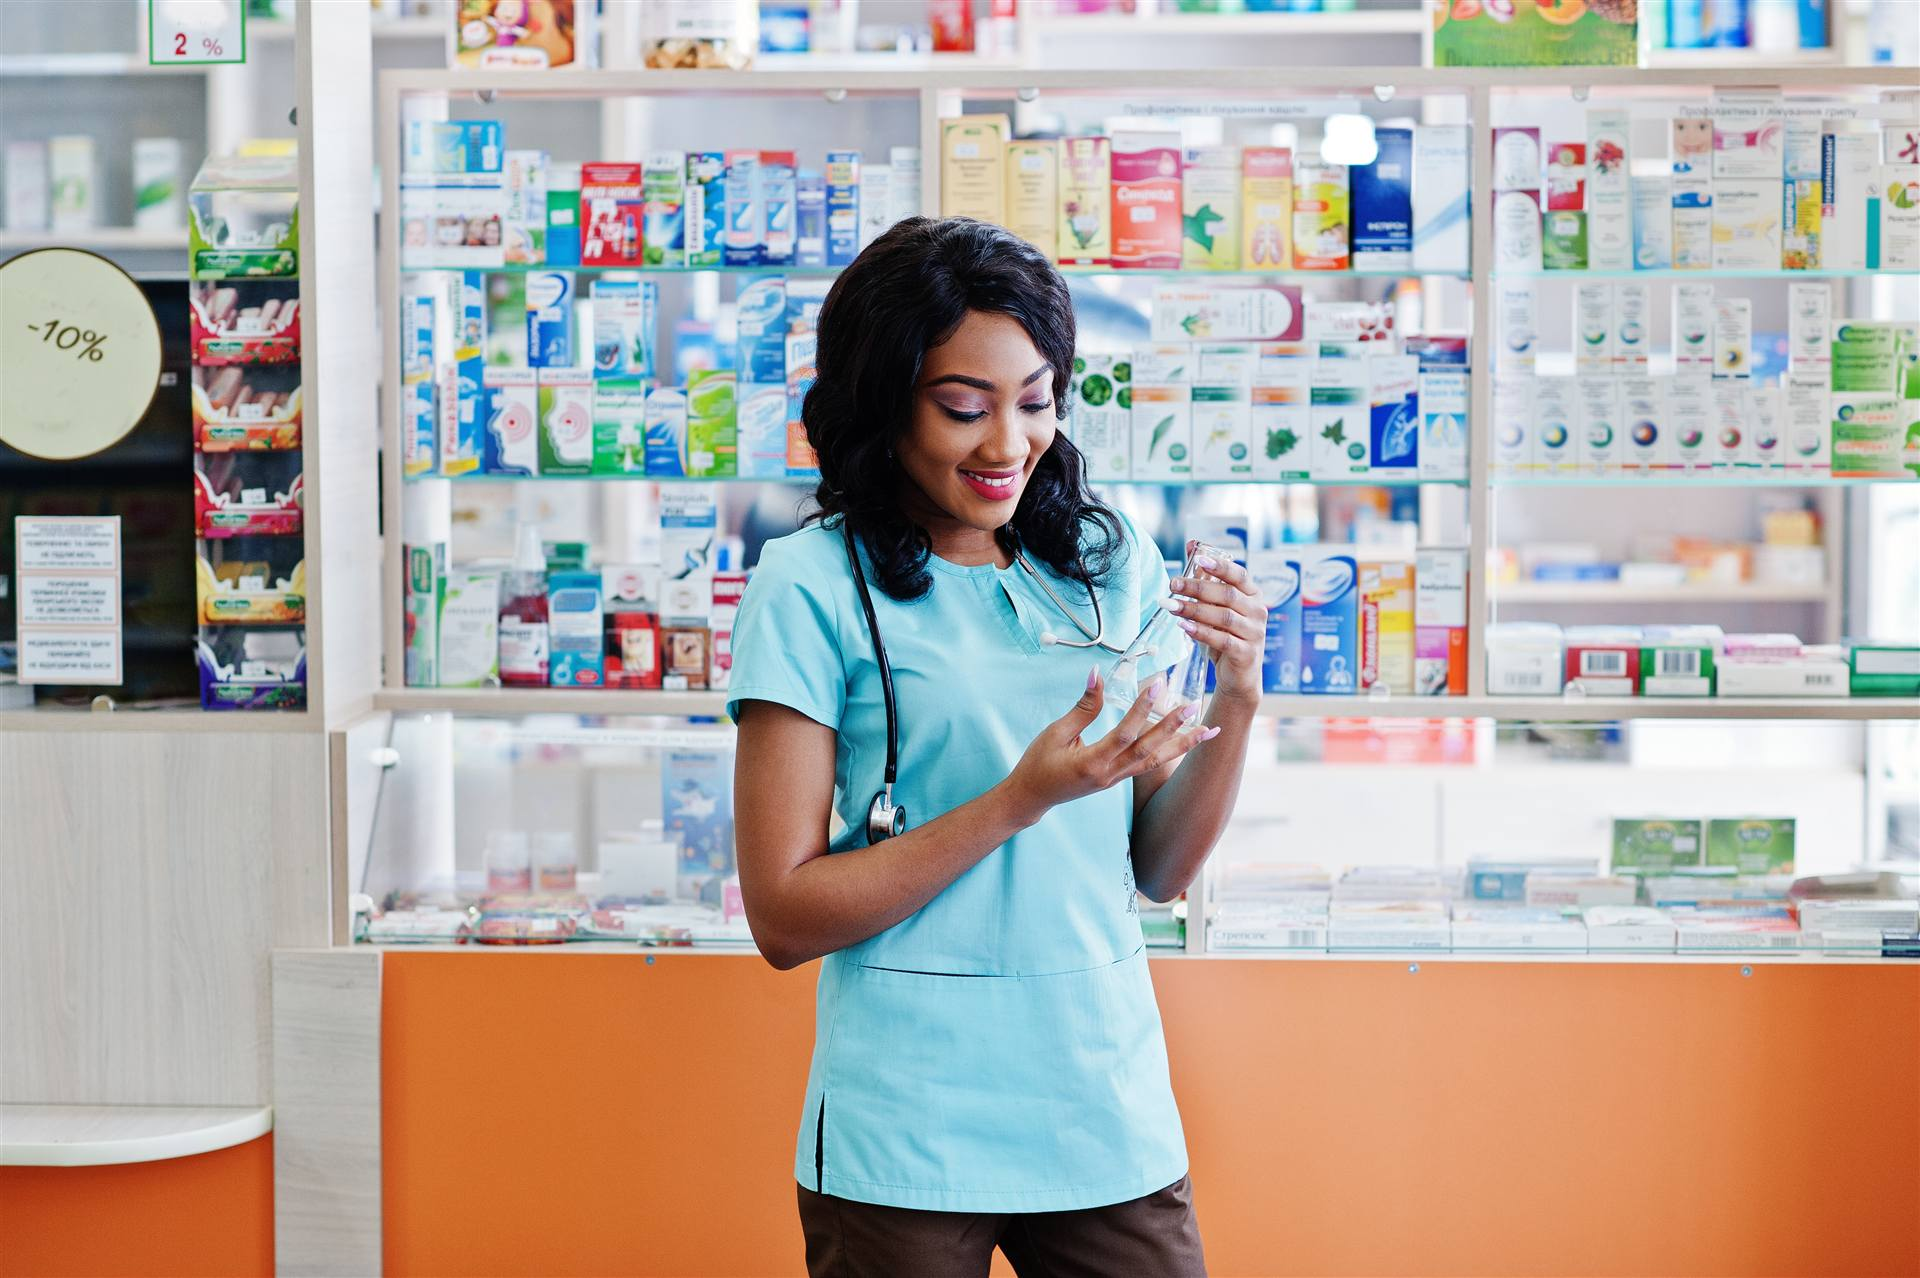
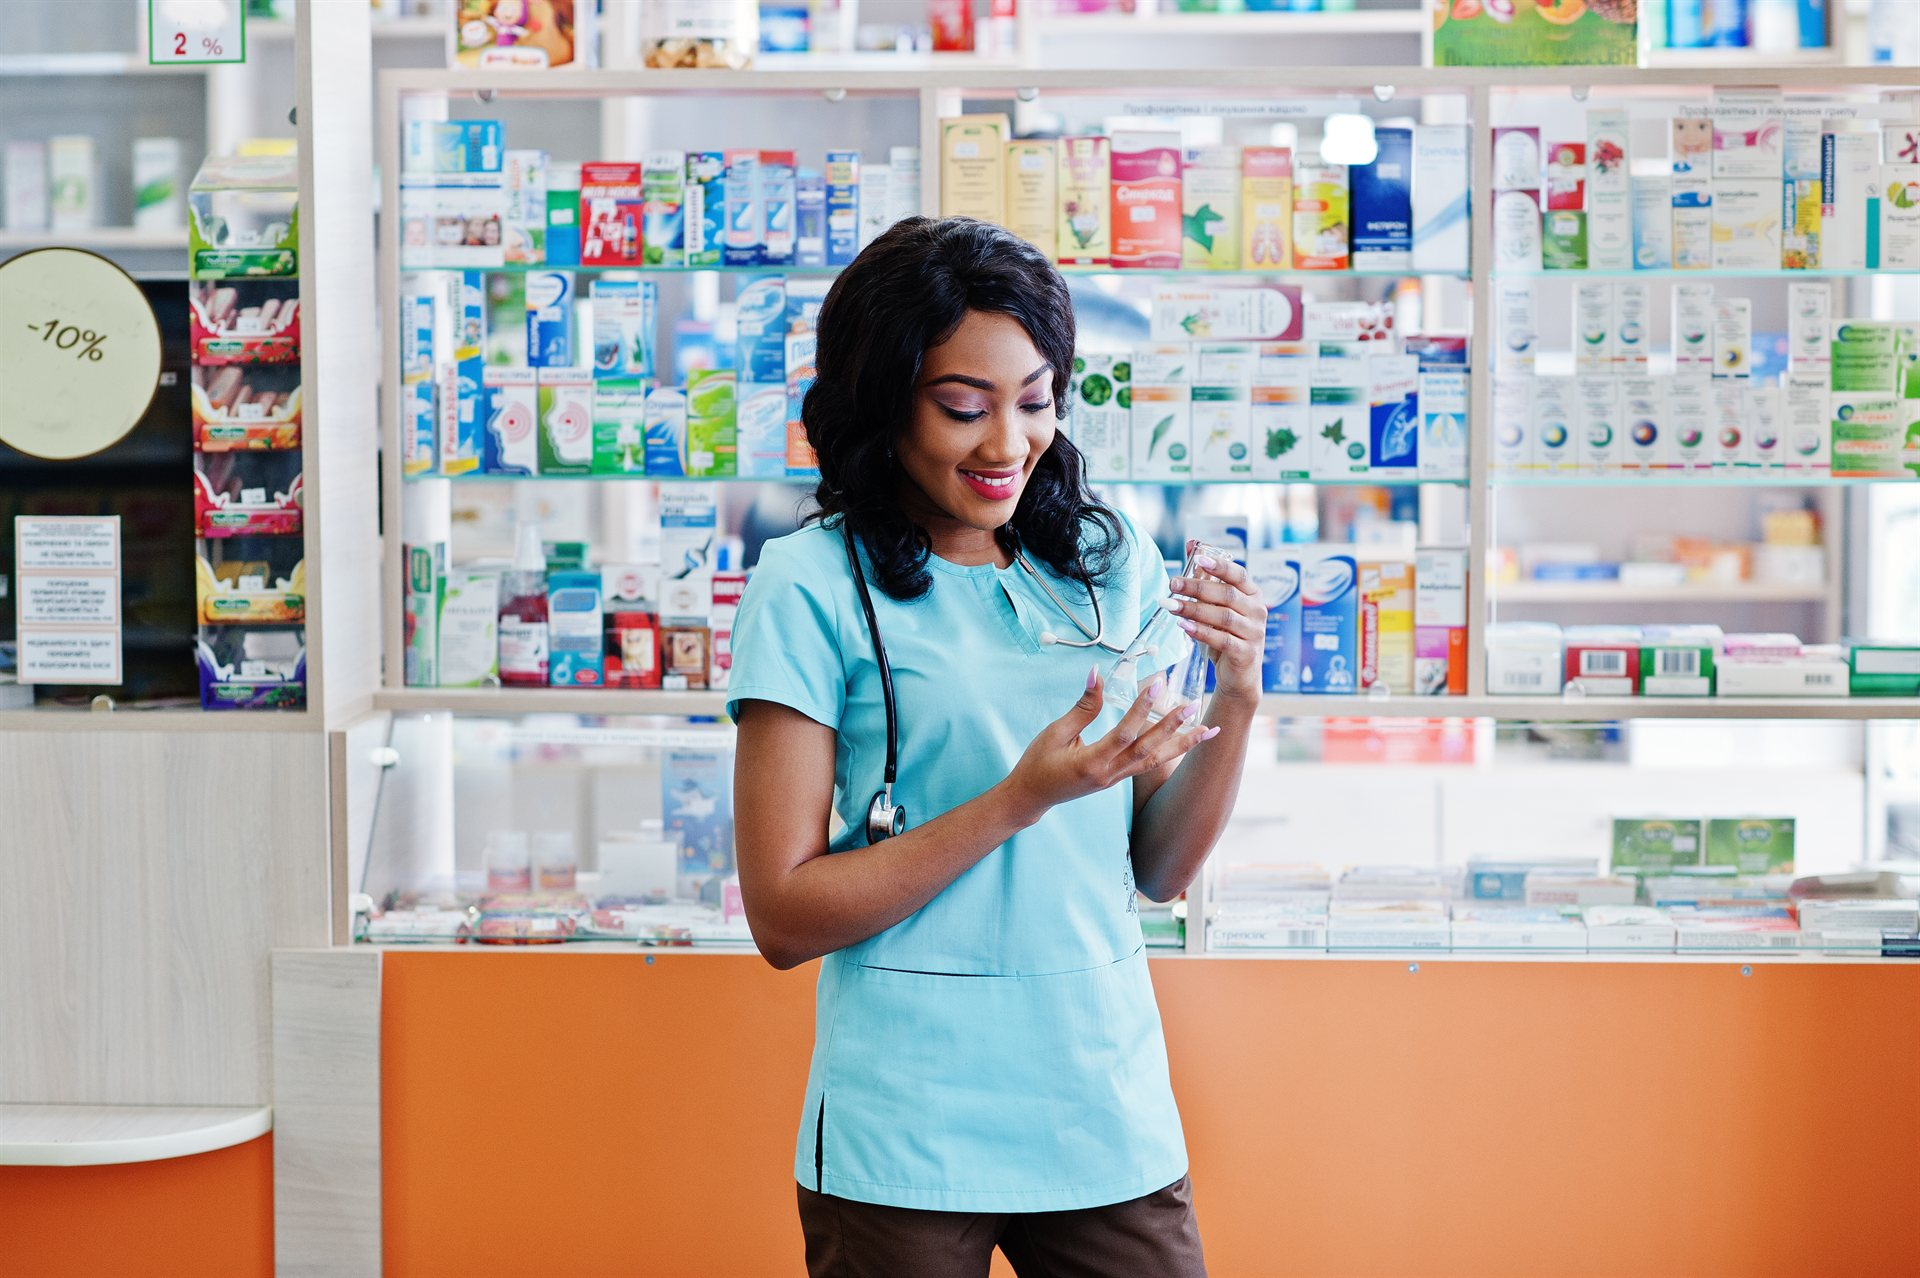
fix: show login slideshow photos clearly
Drop the dark teal overlay, re-export photos at higher quality and
load the remaining slides as soon as the page finishes loading.

Changed region(s): [[0.5625, 0.3967, 0.5938, 0.4577], [0.5, 0.1831, 0.5312, 0.2136], [0.4375, 0.6103, 0.4688, 0.6408]]

diff --git a/src/routes/login.tsx b/src/routes/login.tsx
@@ -32,10 +32,12 @@ function BackgroundSlideshow() {
           setReady((current) => current.map((value, index) => value || index === offset + 1));
         image.src = src;
       });
-    const idle = window.requestIdleCallback ?? ((callback: () => void) => setTimeout(callback, 1500));
-    idle(load);
+    // Start right after the first slide has painted so every photo is ready by its turn.
+    if (document.readyState === "complete") load();
+    else window.addEventListener("load", load, { once: true });
     return () => {
       cancelled = true;
+      window.removeEventListener("load", load);
     };
   }, []);
 
@@ -66,13 +68,10 @@ function BackgroundSlideshow() {
           />
         ) : null,
       )}
-      {/* Teal-tinted overlay keeps the sign-in card legible over the photos. */}
+      {/* Photos stay clear; only a faint bottom shade so the credit line is readable. */}
       <div
-        className="absolute inset-0"
-        style={{
-          background:
-            "linear-gradient(135deg, rgba(15, 61, 54, 0.72) 0%, rgba(31, 156, 136, 0.45) 100%)",
-        }}
+        className="absolute inset-x-0 bottom-0 h-24"
+        style={{ background: "linear-gradient(to top, rgba(0, 0, 0, 0.35), transparent)" }}
       />
     </div>
   );
@@ -129,7 +128,7 @@ function LoginPage() {
       >
         Photos by ASphotofamily on Freepik
       </a>
-      <div className="relative w-full max-w-[560px] overflow-hidden rounded-[28px] bg-white shadow-2xl shadow-black/10 ring-1 ring-black/[0.04]">
+      <div className="relative w-full max-w-[560px] overflow-hidden rounded-[28px] bg-white shadow-2xl shadow-black/30 ring-1 ring-black/[0.04]">
         <div
           className="pointer-events-none absolute -top-32 left-1/2 h-64 w-[120%] -translate-x-1/2 rounded-full opacity-60 blur-3xl"
           style={{
